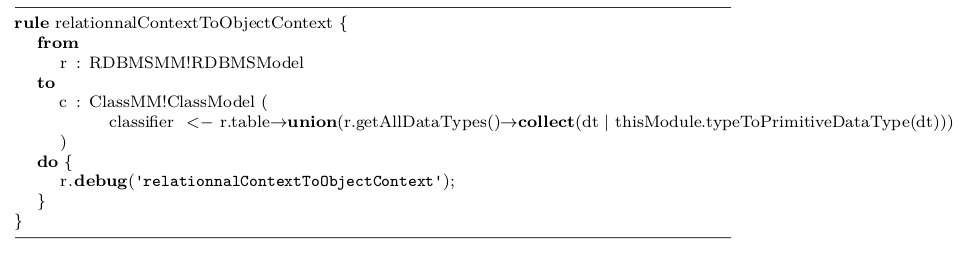
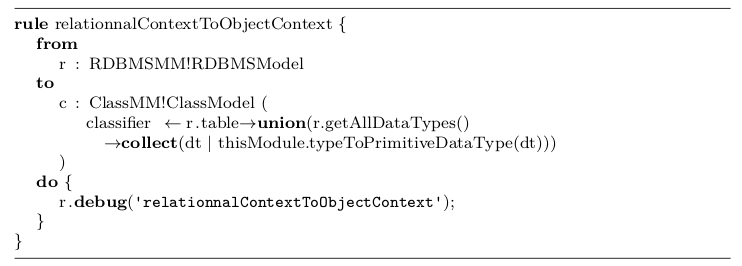
Remove old kscript grammar, update README images

diff --git a/example.tex b/example.tex
@@ -39,7 +39,7 @@ context Person
 pre: 
 	age > 0 and 
 	not firstName.oclIsUndefined() and
-	children->forAll(each | each.isValid()|)
+	children->forAll(each | each.isValid())
 \end{ocl}
 
 
@@ -52,7 +52,8 @@ rule relationnalContextToObjectContext {
 		r : RDBMSMM!RDBMSModel
 	to
 		c : ClassMM!ClassModel (
-            classifier <- r.table->union(r.getAllDataTypes()->collect(dt | thisModule.typeToPrimitiveDataType(dt)))
+			classifier <- r.table->union(r.getAllDataTypes()
+				->collect(dt | thisModule.typeToPrimitiveDataType(dt)))
 		)
 	do {
 		r.debug('relationnalContextToObjectContext');
